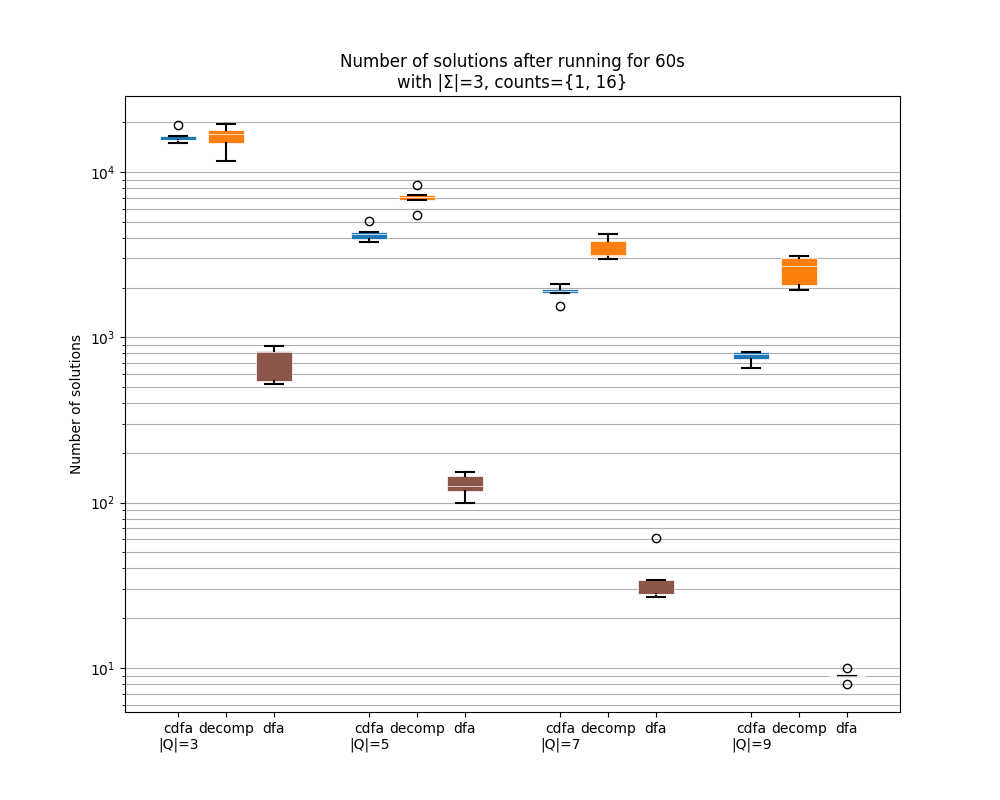
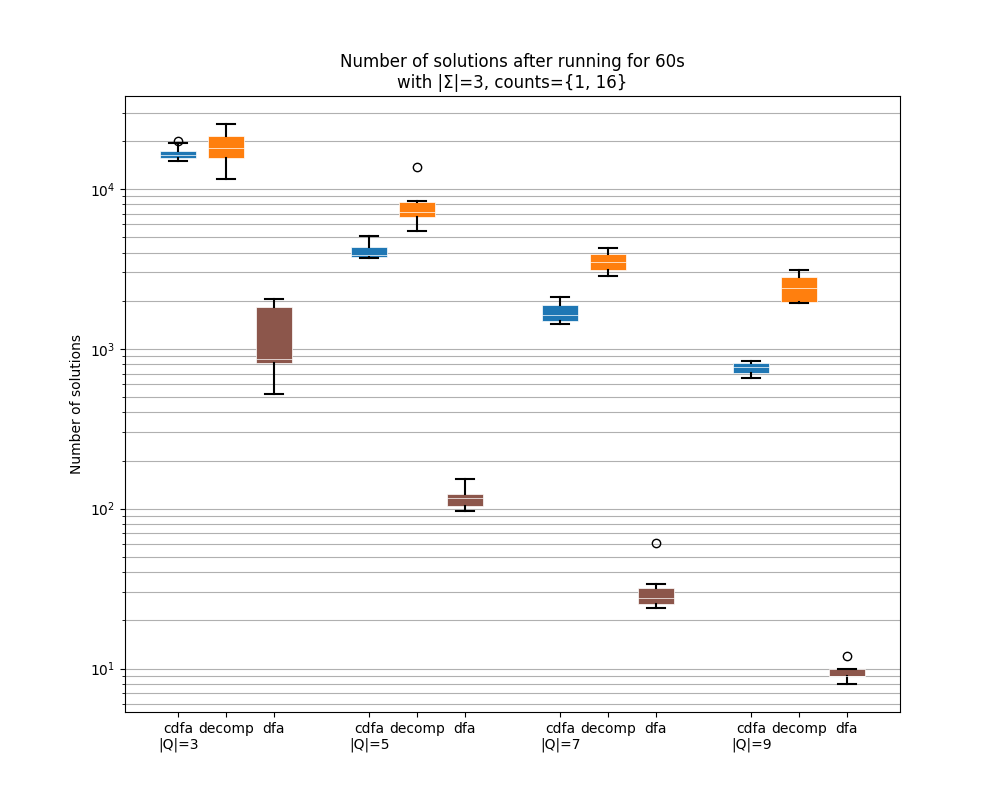
Updated boxplots with new data and added graphs averaging out and aggregating each metric.

Changed region(s): [[0.093, 0.125, 0.899, 0.5312], [0.093, 0.5625, 0.899, 0.7812], [0.806, 0.8125, 0.868, 0.875]]

diff --git a/scripts/graph.py b/scripts/graph.py
@@ -11,14 +11,16 @@ import re
 import json
 from dataclasses import dataclass
 from enum import Enum
-from typing import Sequence
+from typing import Callable, Sequence
 
+from matplotlib.lines import Line2D
 from numpy._typing import NDArray
 
 from config import runner_modes
 
 import numpy as np
 import matplotlib.pyplot as plt
+import matplotlib.patches as mpatches
 
 class SolveStatus(Enum):
     UNSATISFIABLE = -1
@@ -224,7 +226,7 @@ def compile_data(result_dir: str):
     return np.array(mode_results_list, dtype=CollectedResult)
 
 
-def parseValues(results: NDArray, func, states: int | None = None, alphabet: int | None = None, max_count: int | None = None, min_solutions: int | None = None):
+def parseValues(results: NDArray, func: Callable, states: int | None = None, alphabet: int | None = None, max_count: int | None = None, condition: Callable | None = None):
     values = []
     labels = []
     positions = []
@@ -233,7 +235,7 @@ def parseValues(results: NDArray, func, states: int | None = None, alphabet: int
             (states == None or result.states == states) and
             (alphabet == None or result.alphabet == alphabet) and
             (max_count == None or max(result.counts) == max_count) and
-            (min_solutions == None or result.nSolutions >= min_solutions)
+            (condition == None or condition(result))
             for result in results[i]
         ])]
         solutions = [func(result) for result in filtered_results]
@@ -272,14 +274,14 @@ def makeBoxplot(values, positions, labels, colors, title, x_label, y_label, file
     plt.close()
 
 
-def valuesByStates(results, func, state_nums, alphabet, max_count, colors, min_solutions): 
+def valuesByStates(results, func, state_nums, alphabet, max_count, colors, condition): 
     all_values = []
     all_positions = []
     all_labels = []
     all_colors = []
 
     for i, states in enumerate(state_nums):
-        values, labels, positions = parseValues(results, func, states=states, alphabet=alphabet, max_count=max_count, min_solutions=min_solutions)
+        values, labels, positions = parseValues(results, func, states=states, alphabet=alphabet, max_count=max_count, condition=condition)
         all_values.extend(values)
         all_positions.extend([(i * 8) + ((pos + 1) * 2) for pos in positions])
         all_labels.extend([f"{label}{f"\n|Q|={states}" if label == "cdfa" else ""}" for label in labels])
@@ -287,8 +289,7 @@ def valuesByStates(results, func, state_nums, alphabet, max_count, colors, min_s
 
     return all_values, all_positions, all_labels, all_colors
 
-def plotByStatesAndWithoutX(results, func, graph_dir, file_name, title, setup, state_nums, alphabet, max_count, colors, min_solutions, x, x_name):
-    all_values, all_positions, all_labels, all_colors = valuesByStates(results, func, state_nums, alphabet, max_count, colors, min_solutions)
+def plotByStatesAndWithoutX(all_values, all_positions, all_labels, all_colors, graph_dir, file_name, title, setup, alphabet, max_count, x, x_name):
 
     # boxplot
     makeBoxplot(all_values, all_positions, all_labels, all_colors,
@@ -312,6 +313,53 @@ def plotByStatesAndWithoutX(results, func, graph_dir, file_name, title, setup, s
         f"{title} {setup}", "", title,
         f"{graph_dir}/{file_name}_vs_states_boxplot_without_{x_name}_alphabet_{alphabet}{f"_counts_1_{max_count}" if max_count is not None else ""}.png",
         "linear", 10, 6)
+
+
+def plotAll(graph_dir, file_name, results, func, condition, state_nums, alphabet_sizes, max_counts, title, ylabel, yscale, ymin, ymax):
+    fig, (ax1, ax2) = plt.subplots(1, 2)
+
+    markers = ["o", "x", "^"]
+    linestyles = ["-", "--", "-."]
+
+    count_colors = ["tab:brown", "tab:orange", "tab:red", "tab:blue"]
+
+    line_handles = [Line2D([0], [0], color="black", marker=marker, linestyle=linestyle, label=label) for marker, linestyle, label in zip(markers, linestyles, ["cdfa", "decomp", "DFA"])]
+    color_handles = [Line2D([0], [0], color=color, label=f"{'{'}1, {label}{'}'}") for color, label in zip(count_colors, max_counts)]
+
+    fig.legend(handles=line_handles, loc='outside upper right', title="Type")
+    fig.legend(handles=color_handles, loc='outside center right', title="Counts")
+
+    fig.set_figwidth(12)
+    fig.set_figheight(8)
+
+    fig.suptitle(title)
+    fig.supylabel(ylabel)
+
+    for alphabet, ax in zip(alphabet_sizes, [ax1, ax2]):
+        # Compare all num_solutions avg in a graph.
+        for i, max_count in enumerate(max_counts):
+            all_values, _, _, _ = valuesByStates(results, func, state_nums, alphabet, max_count, [], condition)
+
+            for idx in range(3):
+                indices = np.where(np.mod(np.arange(len(all_values)), 3) == idx)
+
+                avgs = []
+                for values in np.array(all_values, dtype=list)[indices]:
+                    avgs.append(np.mean(values) if len(values) > 0 else 0)
+
+                ax.plot(state_nums, avgs, markers[idx] + linestyles[idx], linewidth=2, color=count_colors[i])
+
+        ax.set_title(f"\nwith |Σ|={alphabet}")
+        ax.set_xlabel("|Q| amount of states of cDFA")
+        ax.grid(axis="y", which='both')
+        ax.grid(axis="x")
+        ax.set_xticks(state_nums)
+        ax.set_ylim(bottom=ymin, top=ymax)
+        ax.set_yscale(yscale)
+
+    plt.savefig(f"{graph_dir}/{file_name}.png")
+    plt.close()
+
 
 def main():
     description = "Visualize the data from an experiment."
@@ -351,39 +399,91 @@ def main():
     alphabet_sizes = [3, 6]
     max_counts = [2, 4, 8, 16]
 
+    plotAll(graph_dir, "all_num_solutions", results,
+            lambda r: r.nSolutions, None,
+            state_nums, alphabet_sizes, max_counts,
+            "Average number of solutions after 60s",
+            "Average number of solutions", 'log', 1, 1_000_000)
+
+    plotAll(graph_dir, "all_AverageLearnedNogoodLength", results,
+            lambda r: r.averageLearnedNogoodLength[299],
+            lambda r: r.nSolutions >= 300 and r.nogoods[299] != 0,
+            state_nums, alphabet_sizes, max_counts,
+            "Average learned nogood length at 300 solutions",
+            "Average learned nogood length", 'linear', -5, 250)
+
+    plotAll(graph_dir, "all_LBD", results,
+            lambda r: r.averageLbd[299],
+            lambda r: r.nSolutions >= 300 and r.nogoods[299] != 0,
+            state_nums, alphabet_sizes, max_counts,
+            "Average LBD at 300 solutions",
+            "Average LBD", 'linear', -5, 160)
+
+    plotAll(graph_dir, "all_num_propagations", results,
+            lambda r: r.propagations[299],
+            lambda r: r.nSolutions >= 300,
+            state_nums, alphabet_sizes, max_counts,
+            "Average number of propagations at 300 solutions",
+            "Average number of propagations", 'log', 1_000, 2_000_000)
+
+    plotAll(graph_dir, "all_num_nogoods", results,
+            lambda r: r.nogoods[299],
+            lambda r: r.nSolutions >= 300,
+            state_nums, alphabet_sizes, max_counts,
+            "Average number of conflicts at 300 solutions",
+            "Average number of conflicts", 'linear', -5, 360)
+
+    # Plot all individual boxplots.
     for alphabet in alphabet_sizes:
-
-        # Compare number of solutions
         for max_count in max_counts:
+            # Compare number of solutions
             setup =  f"after running for 60s\nwith |Σ|={alphabet}, counts={"{1, "}{max_count}{'}'}"
-            plotByStatesAndWithoutX(results, lambda r: r.nSolutions, graph_dir,
+            all_values, all_positions, all_labels, all_colors = valuesByStates(results, lambda r: r.nSolutions,
+                                                                               state_nums, alphabet, max_count, colors,
+                                                                               None)
+            plotByStatesAndWithoutX(all_values, all_positions, all_labels, all_colors, graph_dir,
                                     "num_solutions", "Number of solutions",
-                                    setup, state_nums, alphabet, max_count, colors, None, 2, "dfa")
-        # Compare average nogood length
-        for max_count in max_counts:
-            setup =  f"after running for 60s\nwith |Σ|={alphabet}, counts={"{1, "}{max_count}{'}'}"
-            plotByStatesAndWithoutX(results, lambda r: r.averageLearnedNogoodLength[-1], graph_dir,
-                                    "avg_LearnedNogoodLength", "Average learned nogood length",
-                                    setup, state_nums, alphabet, max_count, colors, None, 2, "dfa")
+                                    setup, alphabet, max_count, 2, "dfa")
 
-        # Compare average number of propagations
-        for max_count in max_counts:
-            setup =  f"after running for 60s\nwith |Σ|={alphabet}, counts={"{1, "}{max_count}{'}'}"
-            plotByStatesAndWithoutX(results, lambda r: r.propagations[-1] / r.nSolutions, graph_dir,
-                                    "avg_propagations", "Average number of propagations per solution",
-                                    setup, state_nums, alphabet, max_count, colors, None, 1, "decomp")
-        #plotByCounts(results, lambda r: r.propagations[-1], graph_dir, "num_propagations", "Number of propagations", max_counts, alphabet, colors)
+            # Compare learned nogood length
+            setup =  f"after 300 solutions\nwith |Σ|={alphabet}, counts={"{1, "}{max_count}{'}'}"
+            all_values, all_positions, all_labels, all_colors = valuesByStates(results, lambda r: r.averageLearnedNogoodLength[299],
+                                                                               state_nums, alphabet, max_count, colors,
+                                                                               lambda r: r.nSolutions >= 300 and r.nogoods[299] != 0)
+            plotByStatesAndWithoutX(all_values, all_positions, all_labels, all_colors, graph_dir,
+                                    "LearnedNogoodLength", "Learned nogood length",
+                                    setup, alphabet, max_count, 2, "dfa")
 
-        # Compare average number of nogoods
-        for max_count in max_counts:
-            setup =  f"after 60s\nwith |Σ|={alphabet}, counts={"{1, "}{max_count}{'}'}"
-            plotByStatesAndWithoutX(results, lambda r: r.nogoods[-1] / r.nSolutions, graph_dir,
-                                    "avg_nogoods", "Average number of nogoods per solution",
-                                    setup, state_nums, alphabet, max_count, colors, None, 1, "decomp")
+            # Compare ldb
+            setup =  f"after 300 solutions\nwith |Σ|={alphabet}, counts={"{1, "}{max_count}{'}'}"
+            all_values, all_positions, all_labels, all_colors = valuesByStates(results, lambda r: r.averageLbd[299],
+                                                                               state_nums, alphabet, max_count, colors,
+                                                                               lambda r: r.nSolutions >= 300 and r.nogoods[299] != 0)
+            plotByStatesAndWithoutX(all_values, all_positions, all_labels, all_colors, graph_dir,
+                                    "LBD", "LBD",
+                                    setup, alphabet, max_count, 2, "dfa")
+
+
+            # Compare number of propagations
+            setup =  f"after 300 solutions\nwith |Σ|={alphabet}, counts={"{1, "}{max_count}{'}'}"
+            all_values, all_positions, all_labels, all_colors = valuesByStates(results, lambda r: r.propagations[299],
+                                                                               state_nums, alphabet, max_count, colors,
+                                                                               lambda r: r.nSolutions >= 300)
+            plotByStatesAndWithoutX(all_values, all_positions, all_labels, all_colors, graph_dir,
+                                    "propagations", "Average number of propagations per solution",
+                                    setup, alphabet, max_count, 1, "decomp")
+
+            # Compare number of nogoods
+            setup =  f"after 300 solutions\nwith |Σ|={alphabet}, counts={"{1, "}{max_count}{'}'}"
+            all_values, all_positions, all_labels, all_colors = valuesByStates(results, lambda r: r.nogoods[299],
+                                                                               state_nums, alphabet, max_count, colors,
+                                                                               lambda r: r.nSolutions >= 300)
+            plotByStatesAndWithoutX(all_values, all_positions, all_labels, all_colors, graph_dir,
+                                    "nogoods", "Number of nogoods",
+                                    setup, alphabet, max_count, 1, "decomp")
 
         # Compare peak depth
         #plotByStates(results, lambda r: r.peakDepth[-1], graph_dir, "peak_depth", "Peak depth", setup, state_nums, alphabet, None, colors)
-        #plotByCounts(results, lambda r: r.peakDepth[-1], graph_dir, "peak_depth", "Peak depth", max_counts, alphabet, colors)
 
         #setup =  f"after running for 60s\nwith |Σ|={alphabet}"
 
